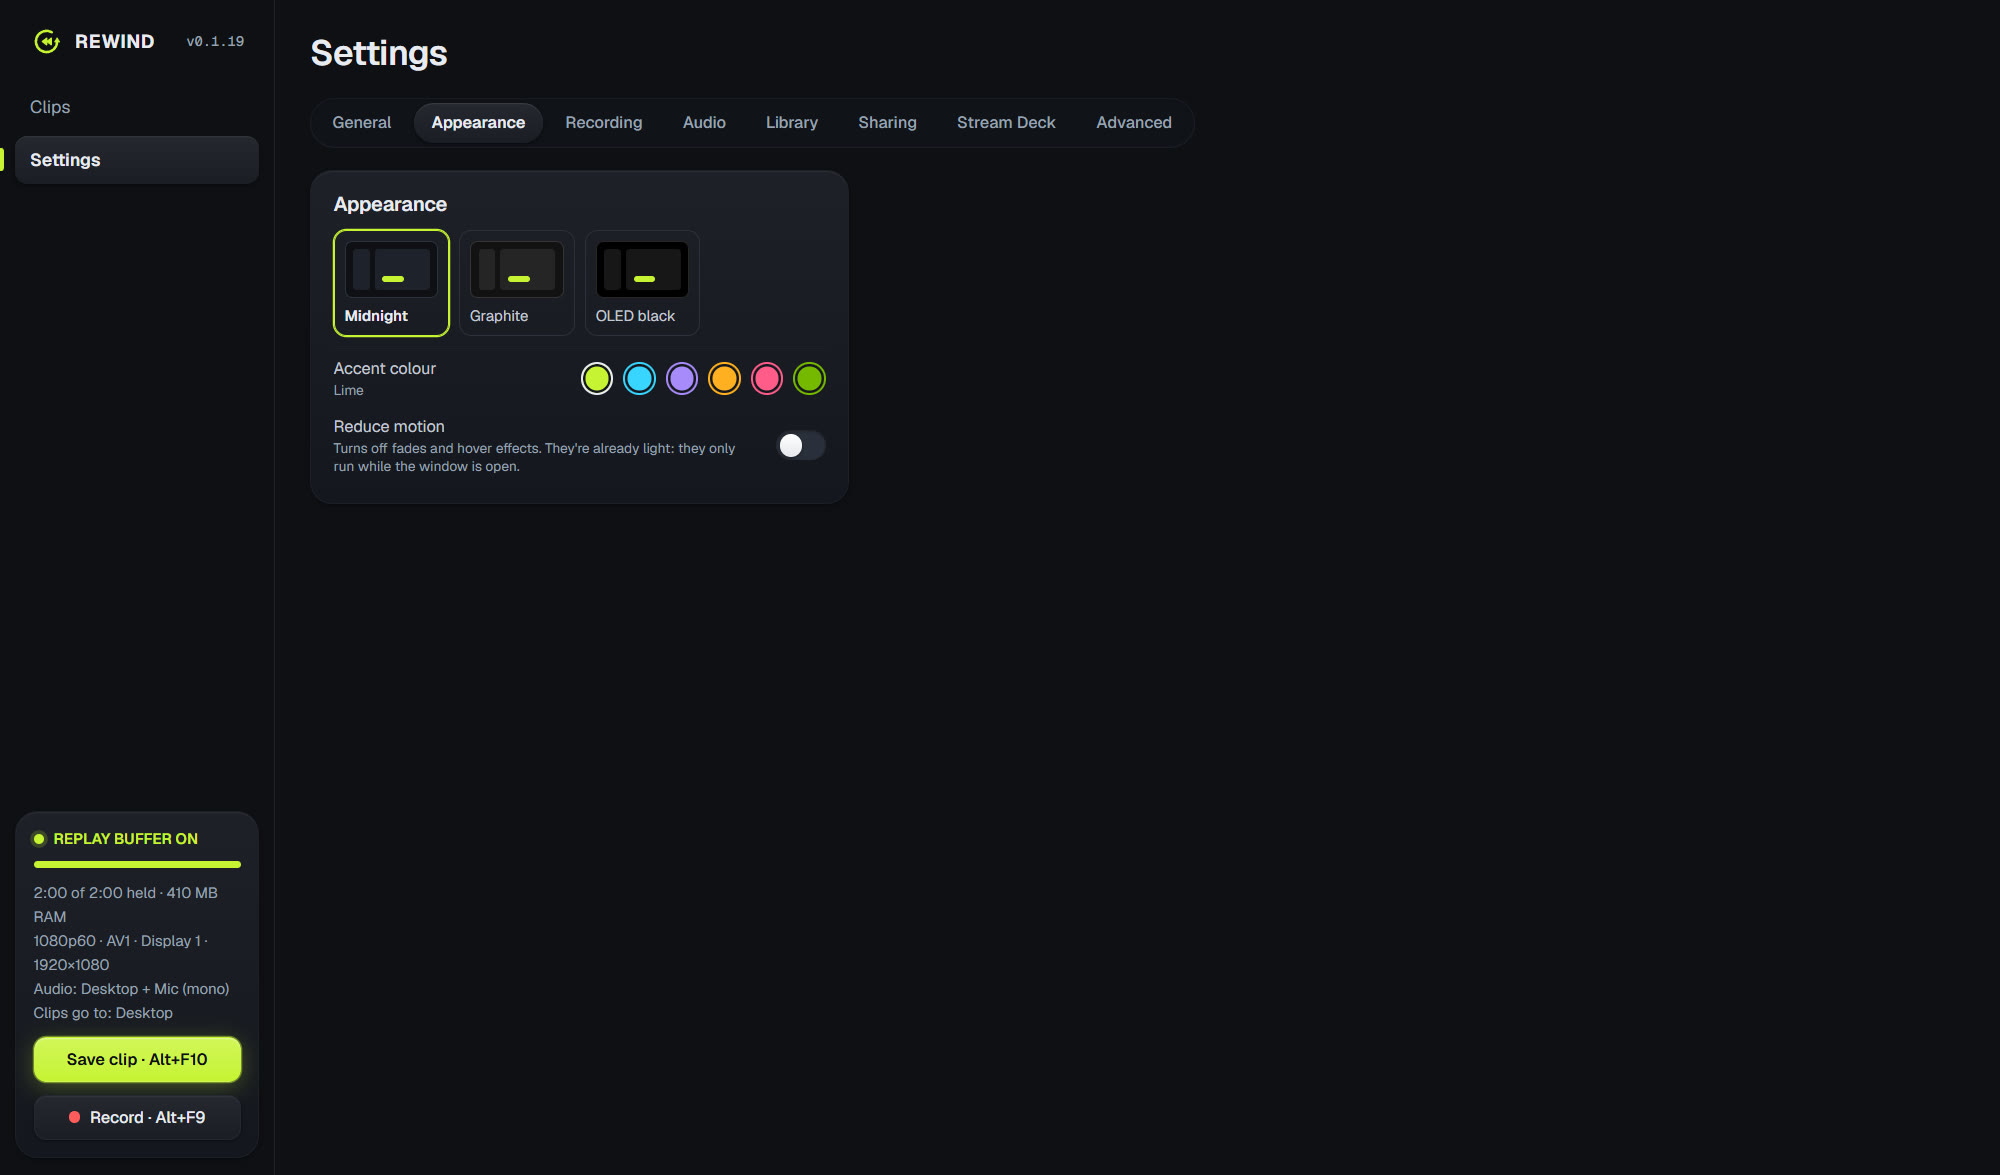
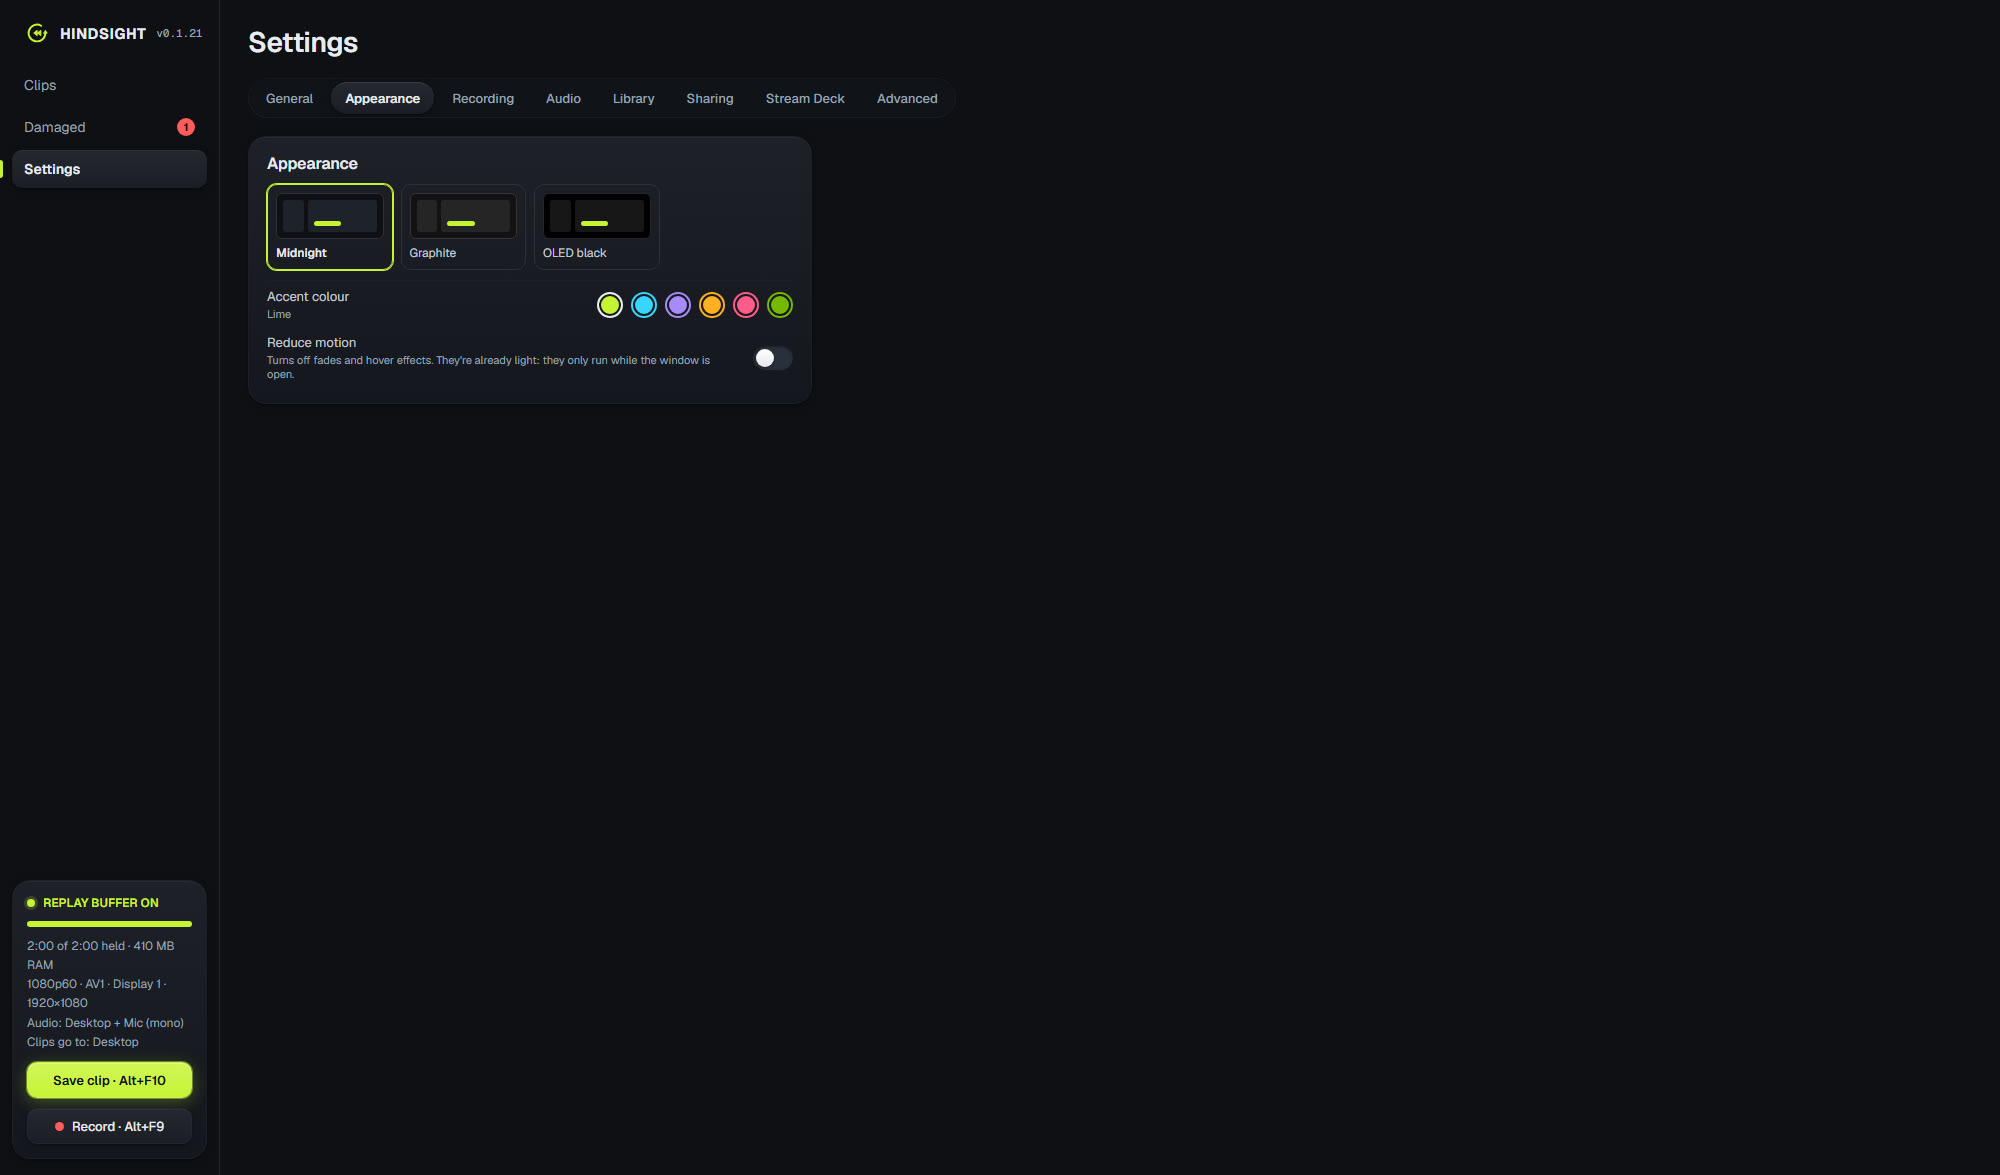
Delete selected clips from the top right; README shows Hindsight; keep preview files out of the app (v0.1.22)
- Selecting clips shows "Delete N clips" at the top right; a selected card's Delete says how many it removes.
- public/ (preview sample clips and thumbnails) is only served in dev, no longer bundled into the app.
- README screenshots retaken with the Hindsight name and the new audio lanes; names in the game frame blurred.
- Release script uploads Hindsight.streamDeckPlugin and fails if it wasn't built.

diff --git a/src/Library.tsx b/src/Library.tsx
@@ -43,7 +43,10 @@ function ClipCard({
   onShare,
   damage,
   returned,
+  deleteCount = 1,
 }: {
+  /** How many clips its Delete removes (all selected ones when it's part of a selection) */
+  deleteCount?: number;
   upload?: UploadProgress;
   /** Its newest link that still works */
   link: Upload | null;
@@ -135,9 +138,9 @@ function ClipCard({
                 e.stopPropagation();
                 onDelete();
               }}
-              title="Move to the Recycle Bin"
+              title={deleteCount > 1 ? `Move the ${deleteCount} selected clips to the Recycle Bin` : "Move to the Recycle Bin"}
             >
-              Delete
+              {deleteCount > 1 ? `Delete ${deleteCount}` : "Delete"}
             </span>
           )}
         </div>
@@ -392,10 +395,16 @@ export function Library({
           </span>
           <input placeholder="clips, games…" value={query} onChange={(e) => setQuery(e.target.value)} />
         </label>
-        {!damagedMode && (
-          <button className="btn" onClick={openAny}>
-            Open any video…
+        {selecting ? (
+          <button className="btn danger" onClick={deleteSelected} title="Move the selected clips to the Recycle Bin (Delete)">
+            Delete {selected.size} clip{selected.size === 1 ? "" : "s"}
           </button>
+        ) : (
+          !damagedMode && (
+            <button className="btn" onClick={openAny}>
+              Open any video…
+            </button>
+          )
         )}
       </div>
       {damagedMode && <DamagedStatus count={clips?.length ?? 0} />}
@@ -411,9 +420,6 @@ export function Library({
           </button>
           <button className="btn small" onClick={() => setSelected(new Set())}>
             Clear
-          </button>
-          <button className="btn small danger" onClick={deleteSelected}>
-            Delete {selected.size}
           </button>
         </div>
       ) : (
@@ -485,6 +491,7 @@ export function Library({
                     onClick={clickCard(c.path)}
                     onToggle={(e) => (e.shiftKey ? selectRange(c.path) : toggle(c.path))}
                     onDelete={() => onDelete(selected.has(c.path) ? [...selected] : [c.path])}
+                    deleteCount={selected.has(c.path) ? selected.size : 1}
                     onToast={onToast}
                     onChanged={onChanged}
                     upload={uploads?.[c.path]}

diff --git a/src/devMock.ts b/src/devMock.ts
@@ -1,3 +1,4 @@
+import pkg from "../package.json";
 // Browser preview mode (dev only): when the UI runs in a normal browser
 // instead of inside Hindsight, fake the backend with sample clips so the
 // interface can be clicked through without touching real files.
@@ -103,7 +104,7 @@ export function installDevMock() {
     get_update_state: () =>
       pendingUpdate
         ? { current: "0.1.12", stage: "ready", version: "0.1.13", notes: "Sample release notes.", error: null }
-        : { current: "0.1.19", stage: "up-to-date", version: null, notes: null, error: null },
+        : { current: pkg.version, stage: "up-to-date", version: null, notes: null, error: null },
     "plugin:opener|open_url": () => null,
     get_nas_state: () =>
       settings.nasDir

diff --git a/vite.config.ts b/vite.config.ts
@@ -5,8 +5,11 @@ import process from "node:process";
 const host = process.env.TAURI_DEV_HOST;
 
 // https://vite.dev/config/
-export default defineConfig(() => ({
+export default defineConfig(({ command }) => ({
   plugins: [react()],
+  // public/ only holds the browser preview's sample clips and thumbnails (some are
+  // frames from real clips), so it's served in dev and never copied into the app.
+  publicDir: command === "serve" ? "public" : false,
 
   // Vite options tailored for Tauri development and only applied in `tauri dev` or `tauri build`
   //
